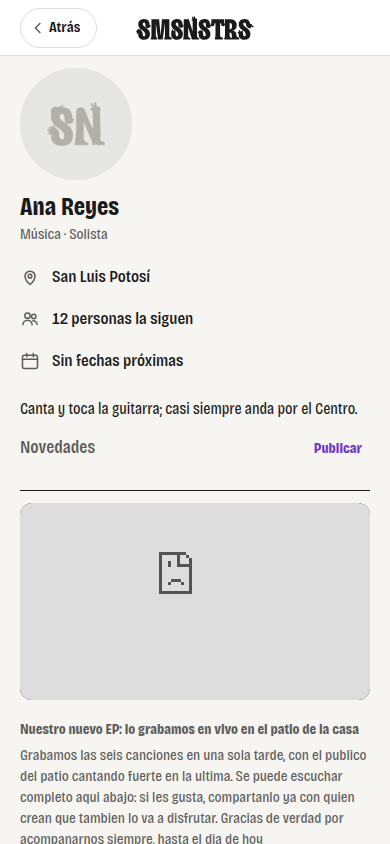
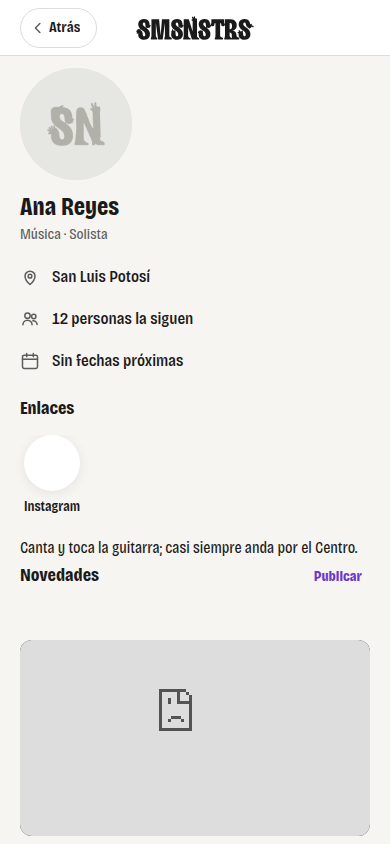
OL-175: título de Novedades igual al de Enlaces
Revisión del gestor sobre la primera entrega (PR #211): «Novedades»
usaba el título gris y pegajoso de FichaLista.module.css en vez del
título negro sin línea de ficha.seccionEnlaces (Ficha.module.css) que
ya usa «Enlaces» (OL-163). La sección ahora reusa ficha.seccionEnlaces
sin tocar ese archivo; «Publicar» sigue en la misma línea del título.
Capturas 01, 02 y 07 rehechas y confirmadas.

diff --git a/src/app/artistas/[id]/SeccionNovedades.tsx b/src/app/artistas/[id]/SeccionNovedades.tsx
@@ -5,7 +5,7 @@ import Link from "next/link";
 import VideoEmbed from "@/components/ui/VideoEmbed";
 import type { VideoEmbed as VideoEmbedType } from "@/lib/video";
 import { fechaRelativaNovedadArtista, NOVEDADES_ARTISTA_VISIBLES_DE_ENTRADA } from "@/lib/novedadesArtista";
-import lista from "@/components/ui/FichaLista.module.css";
+import ficha from "@/components/ui/Ficha.module.css";
 import canon from "@/components/ui/FormularioCanon.module.css";
 import styles from "./SeccionNovedades.module.css";
 
@@ -15,6 +15,12 @@ export type NovedadParaFicha = { id: string; titulo: string | null; texto: strin
  * "Novedades" en la ficha del artista, fase 1 (docs/rediseno/44-novedades-artista.md, OL-175, código de OL-171):
  * las tres más recientes visibles, con su reproductor, título, texto y fecha relativa; "Ver más" destapa el resto
  * sin paginar. Sin novedades y sin poder publicar, la sección no aparece del todo (ni el título).
+ *
+ * El título reusa `ficha.seccionEnlaces` (`Ficha.module.css`), el mismo que ya usa «Enlaces» (OL-163, founder:
+ * la línea bajo el título "se ve horrible") — negro, `--letra-xl`, sin línea ni pegajoso, en vez del título gris
+ * y pegajoso de `FichaLista.module.css` que traían "Se presenta en"/"Enlaces del catálogo": dos títulos en la
+ * misma ficha tienen que verse iguales. Sin editar `Ficha.module.css`: "Publicar" solo añade su propio layout
+ * (flex, en el mismo `<h2>`) encima de esa clase compartida.
  */
 export default function SeccionNovedades({ novedades, artistaNombre, hrefPublicar }: { novedades: NovedadParaFicha[]; artistaNombre: string; hrefPublicar: string | null }) {
   const [abierto, setAbierto] = useState(false);
@@ -24,9 +30,9 @@ export default function SeccionNovedades({ novedades, artistaNombre, hrefPublica
   const hayMas = !abierto && novedades.length > NOVEDADES_ARTISTA_VISIBLES_DE_ENTRADA;
 
   return (
-    <section className={lista.lista} aria-label="Novedades">
+    <section className={ficha.seccionEnlaces} aria-label="Novedades">
       <h2 className={styles.cabecera}>
-        <span>Novedades</span>
+        <span className={styles.tituloSeccion}>Novedades</span>
         {hrefPublicar && (
           <Link href={hrefPublicar} className={canon.cambiar}>
             Publicar
@@ -34,10 +40,10 @@ export default function SeccionNovedades({ novedades, artistaNombre, hrefPublica
         )}
       </h2>
       {novedades.length === 0 ? (
-        <p className={lista.vacio}>Aún no hay novedades.</p>
+        <p className={styles.vacio}>Aún no hay novedades.</p>
       ) : (
         <>
-          <ul>
+          <ul className={styles.lista}>
             {visibles.map((n) => (
               <li key={n.id} className={styles.novedad}>
                 {n.video && <VideoEmbed video={n.video} titulo={artistaNombre} />}

diff --git a/src/app/artistas/[id]/SeccionNovedades.module.css b/src/app/artistas/[id]/SeccionNovedades.module.css
@@ -1,16 +1,30 @@
-/* Novedades del artista, fase 1 (OL-175, doc 44). El bloque en sí (título pegajoso, "vacío") sale del canon
-   compartido de fichas (`ui/FichaLista.module.css`, `.lista`/`.vacio`); "Publicar" y "Ver más" reusan el botón de
-   texto del canon de formularios (`ui/FormularioCanon.module.css`, `.cambiar`). Aquí solo lo propio: la cabecera
-   con "Publicar" a la derecha del título, y cada tarjeta de novedad. */
+/* Novedades del artista, fase 1 (OL-175, doc 44). El título de la sección sale de `ficha.seccionEnlaces`
+   (`Ficha.module.css`), el mismo que "Enlaces" (OL-163: sin línea, negro, --letra-xl) — dos títulos de la misma
+   ficha tienen que verse iguales, revisión del gestor tras la primera entrega de esta pieza (bitácora 210).
+   "Publicar" y "Ver más" reusan el botón de texto del canon de formularios (`ui/FormularioCanon.module.css`,
+   `.cambiar`). Aquí solo lo propio: el layout de la cabecera (título + "Publicar" en la misma línea), la lista
+   sin viñetas y cada tarjeta de novedad. */
 .cabecera {
   display: flex;
   justify-content: space-between;
   align-items: baseline;
   gap: var(--espacio-2);
 }
+.tituloSeccion {
+  min-width: 0;
+}
 .cabecera > a {
   flex: none;
   text-decoration: none;
+}
+.lista {
+  list-style: none;
+}
+.vacio {
+  padding: var(--espacio-3) 0;
+  color: var(--texto-suave);
+  font-size: var(--letra-sm);
+  line-height: 1.4;
 }
 .novedad {
   padding: var(--espacio-3) 0;

diff --git a/docs/bitacora/2026/09/210-novedades-artista-fase1.md b/docs/bitacora/2026/09/210-novedades-artista-fase1.md
@@ -209,6 +209,14 @@ ya existentes en `docs/ops/OPEN_LOOPS.md` (de piezas anteriores, sin tocar) y lo
 en el dominio sintético `@local.test` (mismo patrón que `rls.test.mjs`, `pincel-freno.test.mjs`, etc.), nunca una
 dirección real.
 
+## Revisión del gestor (PR #211): título de «Novedades» igual al de «Enlaces»
+
+Hallazgo: «Novedades» usaba el título de `FichaLista.module.css` (`.lista h2`: gris, pegajoso, con línea debajo);
+«Enlaces», fijado en OL-163, usa `ficha.seccionEnlaces` (negro, `--letra-xl`, sin línea — el founder: la línea
+«se ve horrible»). Corregido: la sección ahora usa `ficha.seccionEnlaces` (sin tocar `Ficha.module.css`), con
+«Publicar» en la misma línea del título vía el propio `<h2>` (`styles.cabecera`, flex); capturas 01, 02 y 07
+rehechas y confirmadas (título negro, sin línea, igual que «Enlaces», comparados en la misma pantalla en la 01).
+
 ## Cierre
 
 Sin PR (lo da el gestor). Commit local en `novedades-artista-fase1` con
